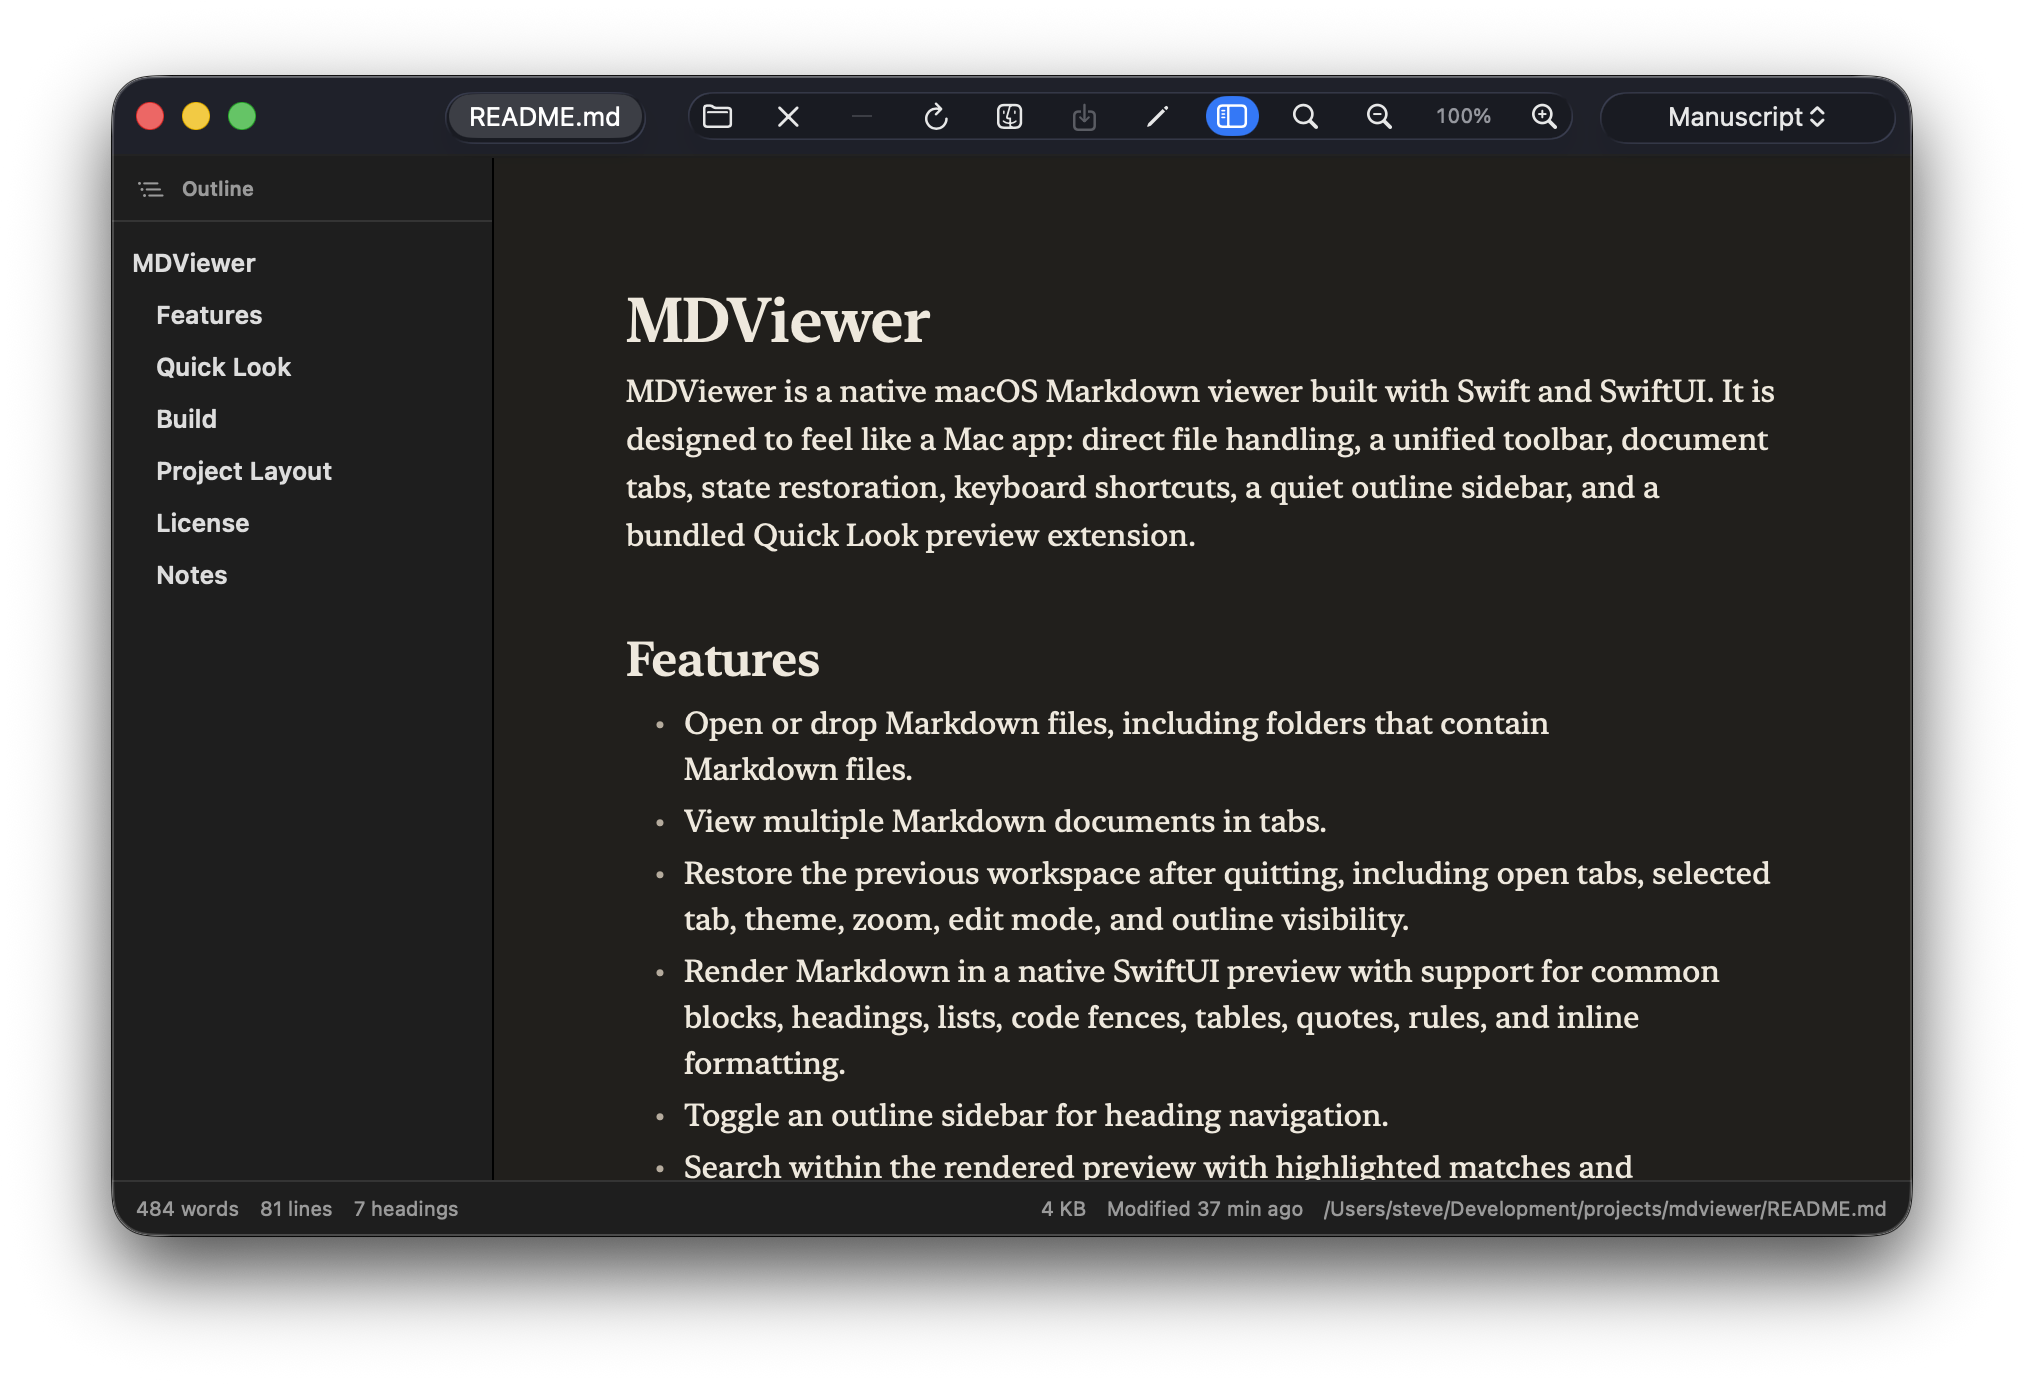
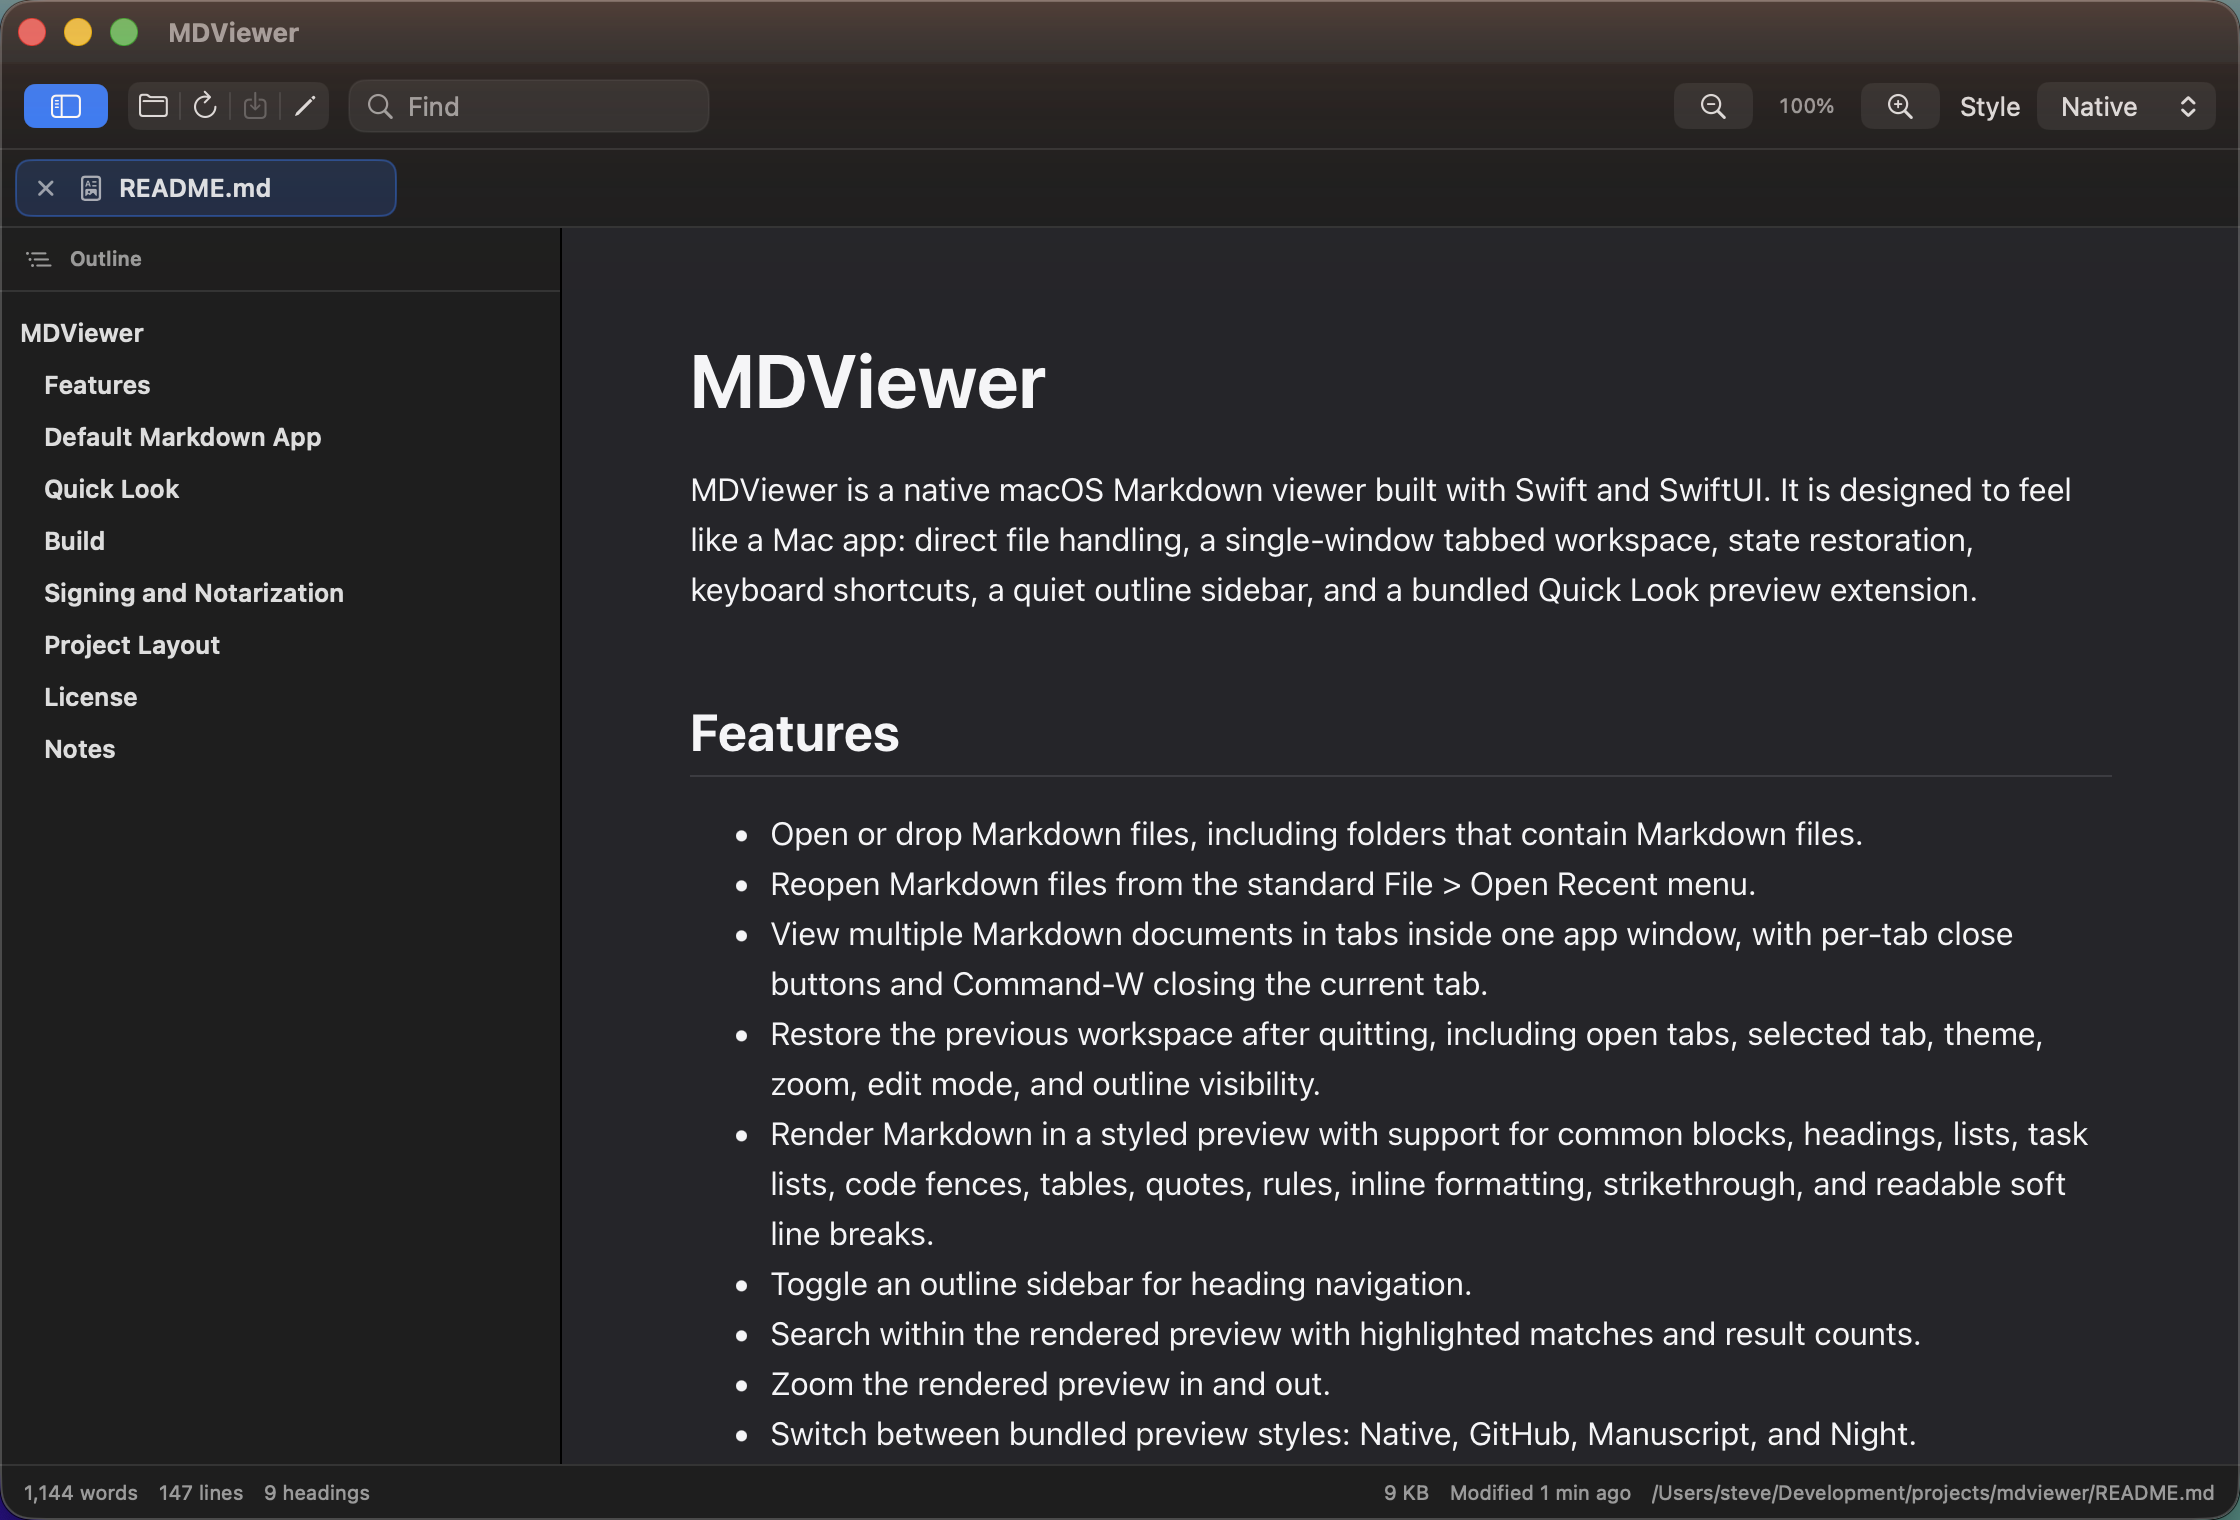
Update README and add app and Quick Look screenshots
Describe the swift-markdown (cmark-gfm) renderer and HTML/WebView
preview in place of the old dependency-free renderer notes, add task
lists and strikethrough to the feature list, and refresh the app
screenshot plus a new Quick Look preview screenshot.

diff --git a/README.md b/README.md
@@ -2,7 +2,7 @@
 
 MDViewer is a native macOS Markdown viewer built with Swift and SwiftUI. It is designed to feel like a Mac app: direct file handling, a single-window tabbed workspace, state restoration, keyboard shortcuts, a quiet outline sidebar, and a bundled Quick Look preview extension.
 
-![MDViewer showing a Markdown document with outline, native preview, and find controls](Screenshot.png)
+![MDViewer rendering this README, with the outline sidebar, toolbar, and find controls](Screenshot.png)
 
 ## Features
 
@@ -10,7 +10,7 @@ MDViewer is a native macOS Markdown viewer built with Swift and SwiftUI. It is d
 - Reopen Markdown files from the standard File > Open Recent menu.
 - View multiple Markdown documents in tabs inside one app window, with per-tab close buttons and Command-W closing the current tab.
 - Restore the previous workspace after quitting, including open tabs, selected tab, theme, zoom, edit mode, and outline visibility.
-- Render Markdown in a native SwiftUI preview with support for common blocks, headings, lists, code fences, tables, quotes, rules, inline formatting, and readable soft line breaks.
+- Render Markdown in a styled preview with support for common blocks, headings, lists, task lists, code fences, tables, quotes, rules, inline formatting, strikethrough, and readable soft line breaks.
 - Toggle an outline sidebar for heading navigation.
 - Search within the rendered preview with highlighted matches and result counts.
 - Zoom the rendered preview in and out.
@@ -43,6 +43,8 @@ The script looks for duplicate MDViewer bundles in common locations, unregisters
 If the Finder `Open With` menu still shows stale entries immediately after repair, relaunch Finder or log out and back in; Finder can cache menu contents after Launch Services has already been corrected.
 
 ## Quick Look
+
+![Finder Quick Look preview of a Markdown file, rendered by the bundled MDViewer extension](QuickLook.png)
 
 The app embeds a native Quick Look Preview extension at:
 
@@ -129,9 +131,10 @@ xcrun stapler validate build/DerivedData/Build/Products/Release/MDViewer.app
 
 ## Project Layout
 
-- `MDViewer/ContentView.swift` contains the main SwiftUI app surface and native rendered preview.
+- `MDViewer/ContentView.swift` contains the main SwiftUI app surface, toolbar, tabs, outline sidebar, and editor.
+- `MDViewer/MarkdownWebView.swift` hosts the rendered preview in a `WKWebView` with find highlighting, zoom, and scroll-to-heading.
 - `MDViewer/WorkspaceStore.swift` manages tabs, file access, workspace restoration, themes, zoom, edit state, and file commands.
-- `MDViewer/MarkdownRenderer.swift` renders Markdown to HTML for copy/export and Quick Look.
+- `MDViewer/MarkdownRenderer.swift` parses Markdown with swift-markdown and renders it to HTML for the preview, copy/export, and Quick Look.
 - `MDViewer/Styles/` contains bundled preview styles.
 - `QuickLookPreview/` contains the bundled Quick Look Preview extension.
 - `Tools/generate_app_icon.py` regenerates the app icon assets.
@@ -142,6 +145,6 @@ MIT. See `LICENSE`.
 
 ## Notes
 
-The Markdown renderer is intentionally dependency-free for the initial project. It supports common Markdown blocks and inline formatting, and is isolated in `MarkdownRenderer.swift` so it can be replaced later with a CommonMark/GFM parser if the app needs full compatibility.
+The Markdown renderer uses Apple’s [swift-markdown](https://github.com/swiftlang/swift-markdown) library, which is backed by `cmark-gfm`, for CommonMark and GitHub Flavored Markdown parsing. The parsed tree is walked in `MarkdownRenderer.swift` to emit styled HTML that drives the rendered preview, HTML copy/export, and the Quick Look extension. Rendering is safe by default: text, raw HTML blocks, and inline HTML are all escaped so a Markdown file cannot inject live markup into the preview, and `javascript:` and `data:text/html` URLs are neutralized.
 
 Stylesheet acknowledgements live in `ACKNOWLEDGEMENTS.md`.